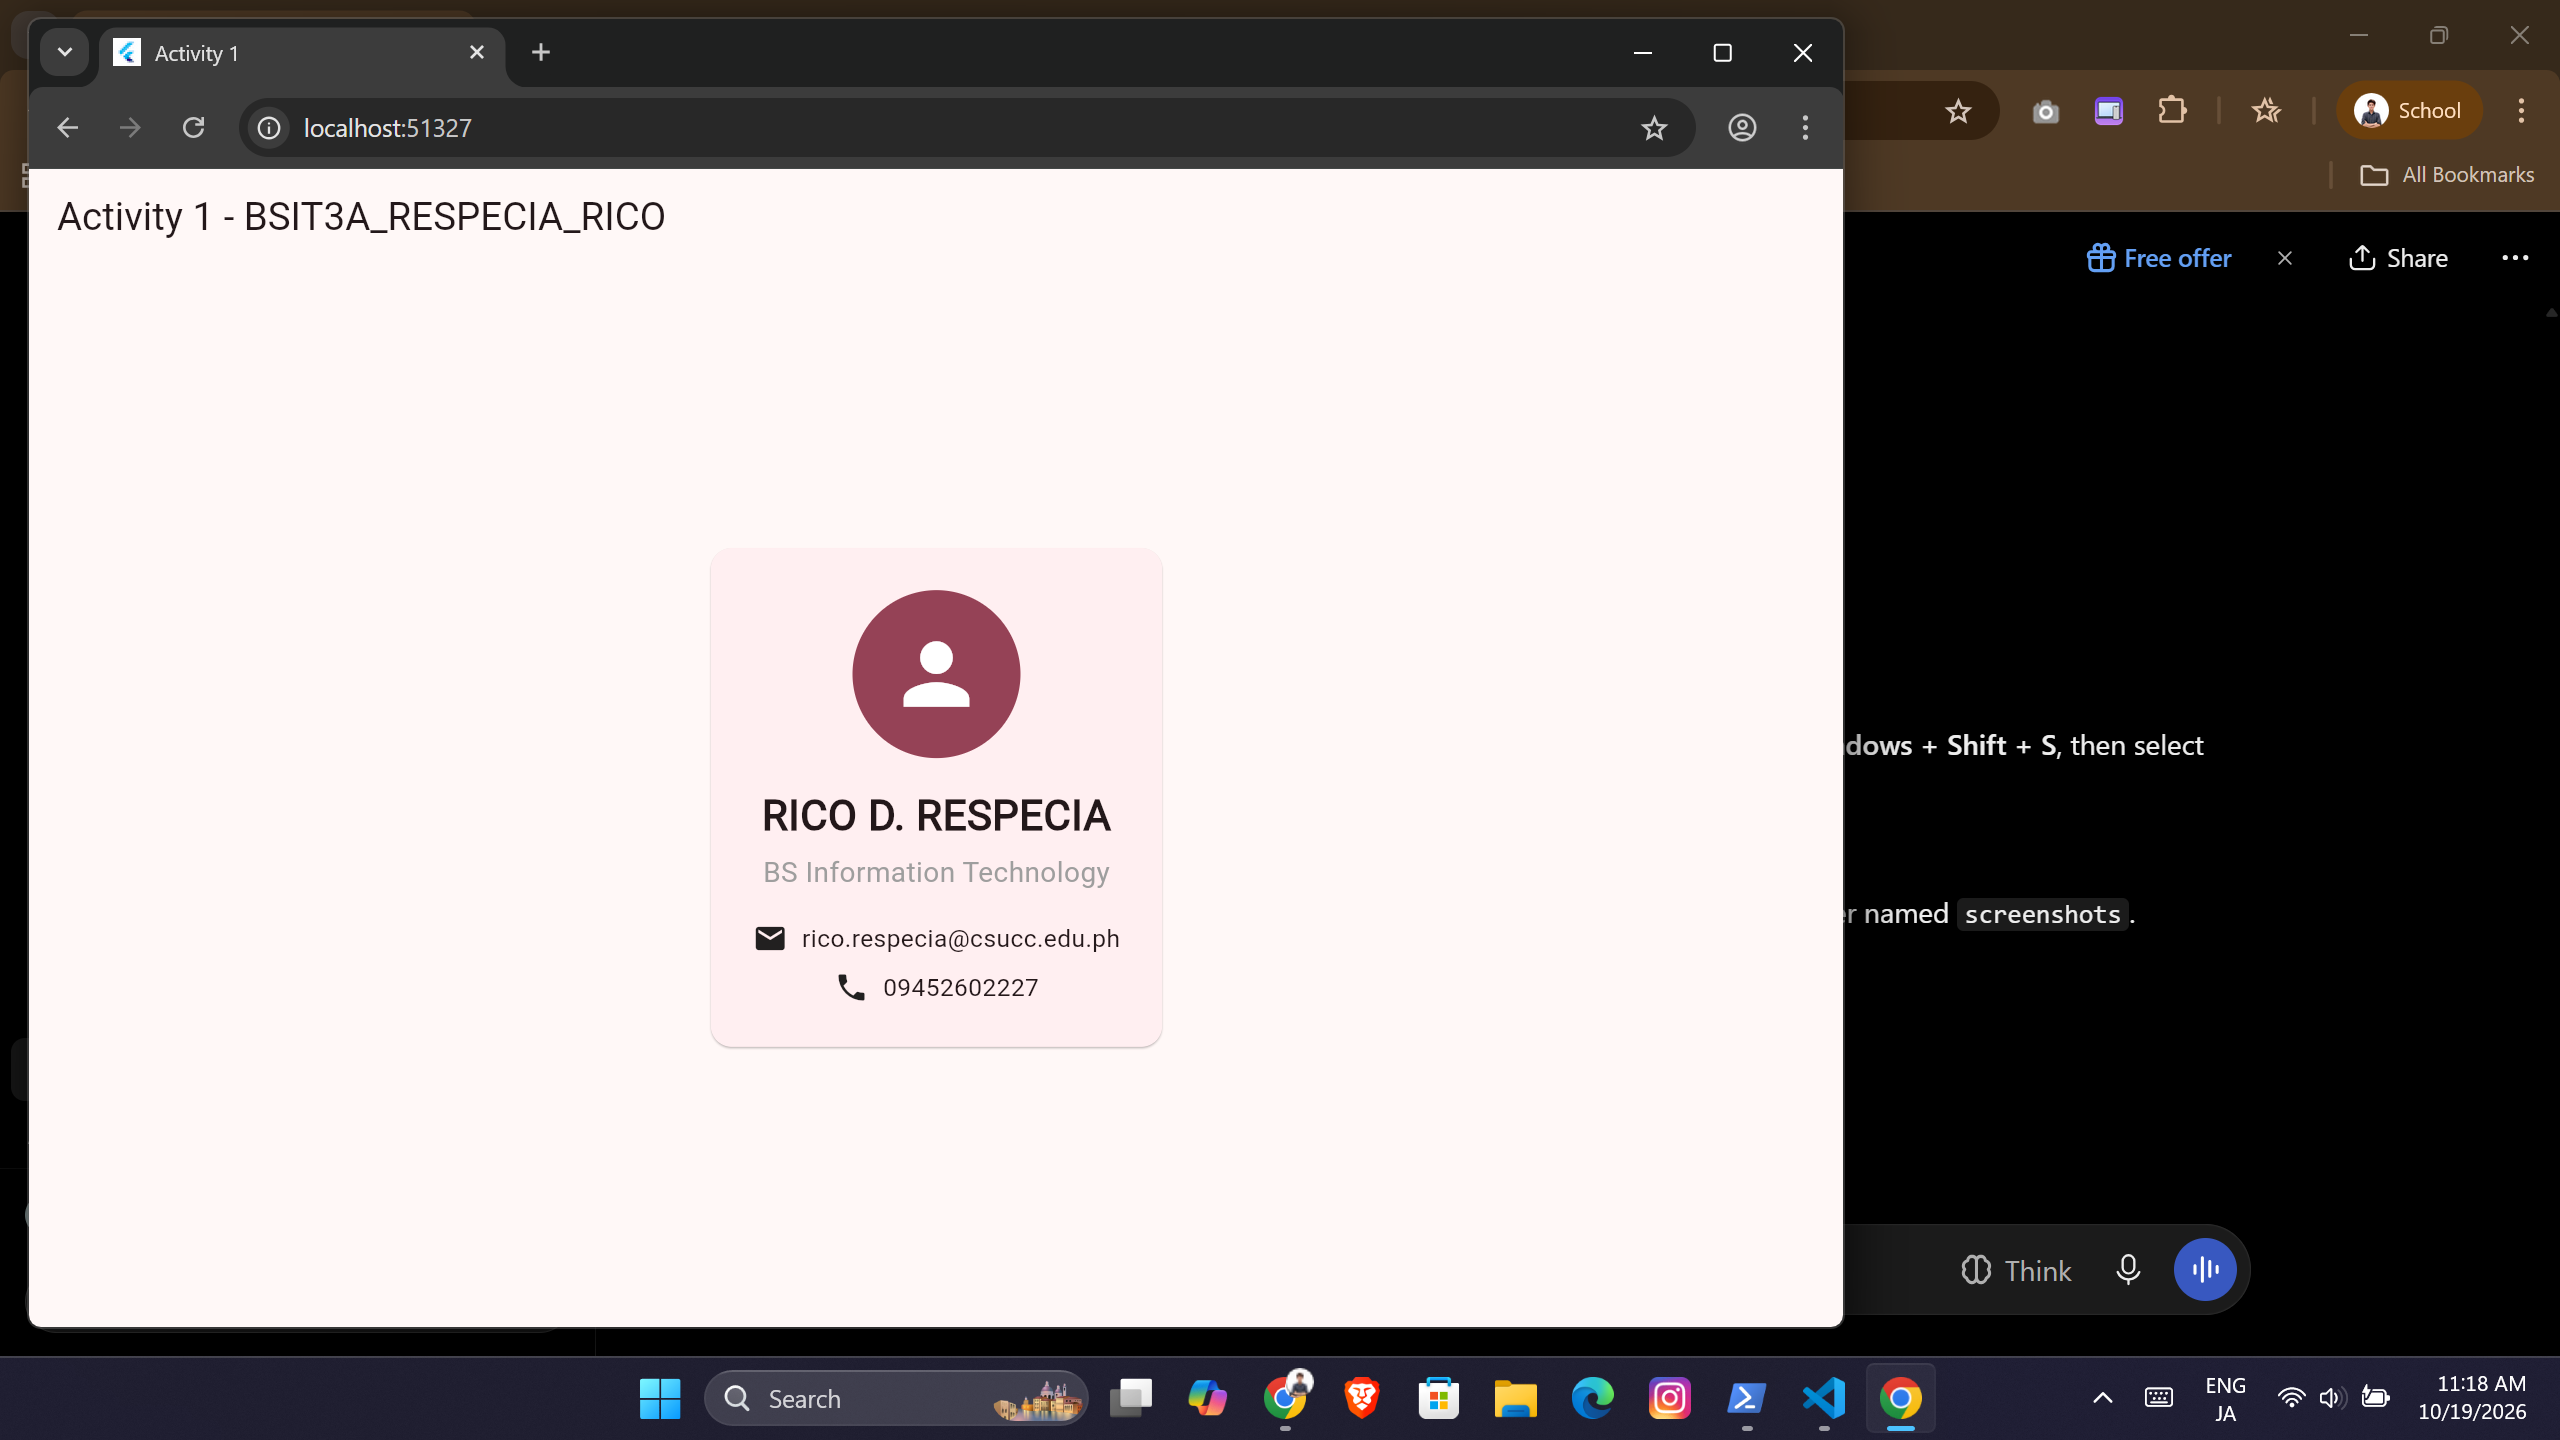
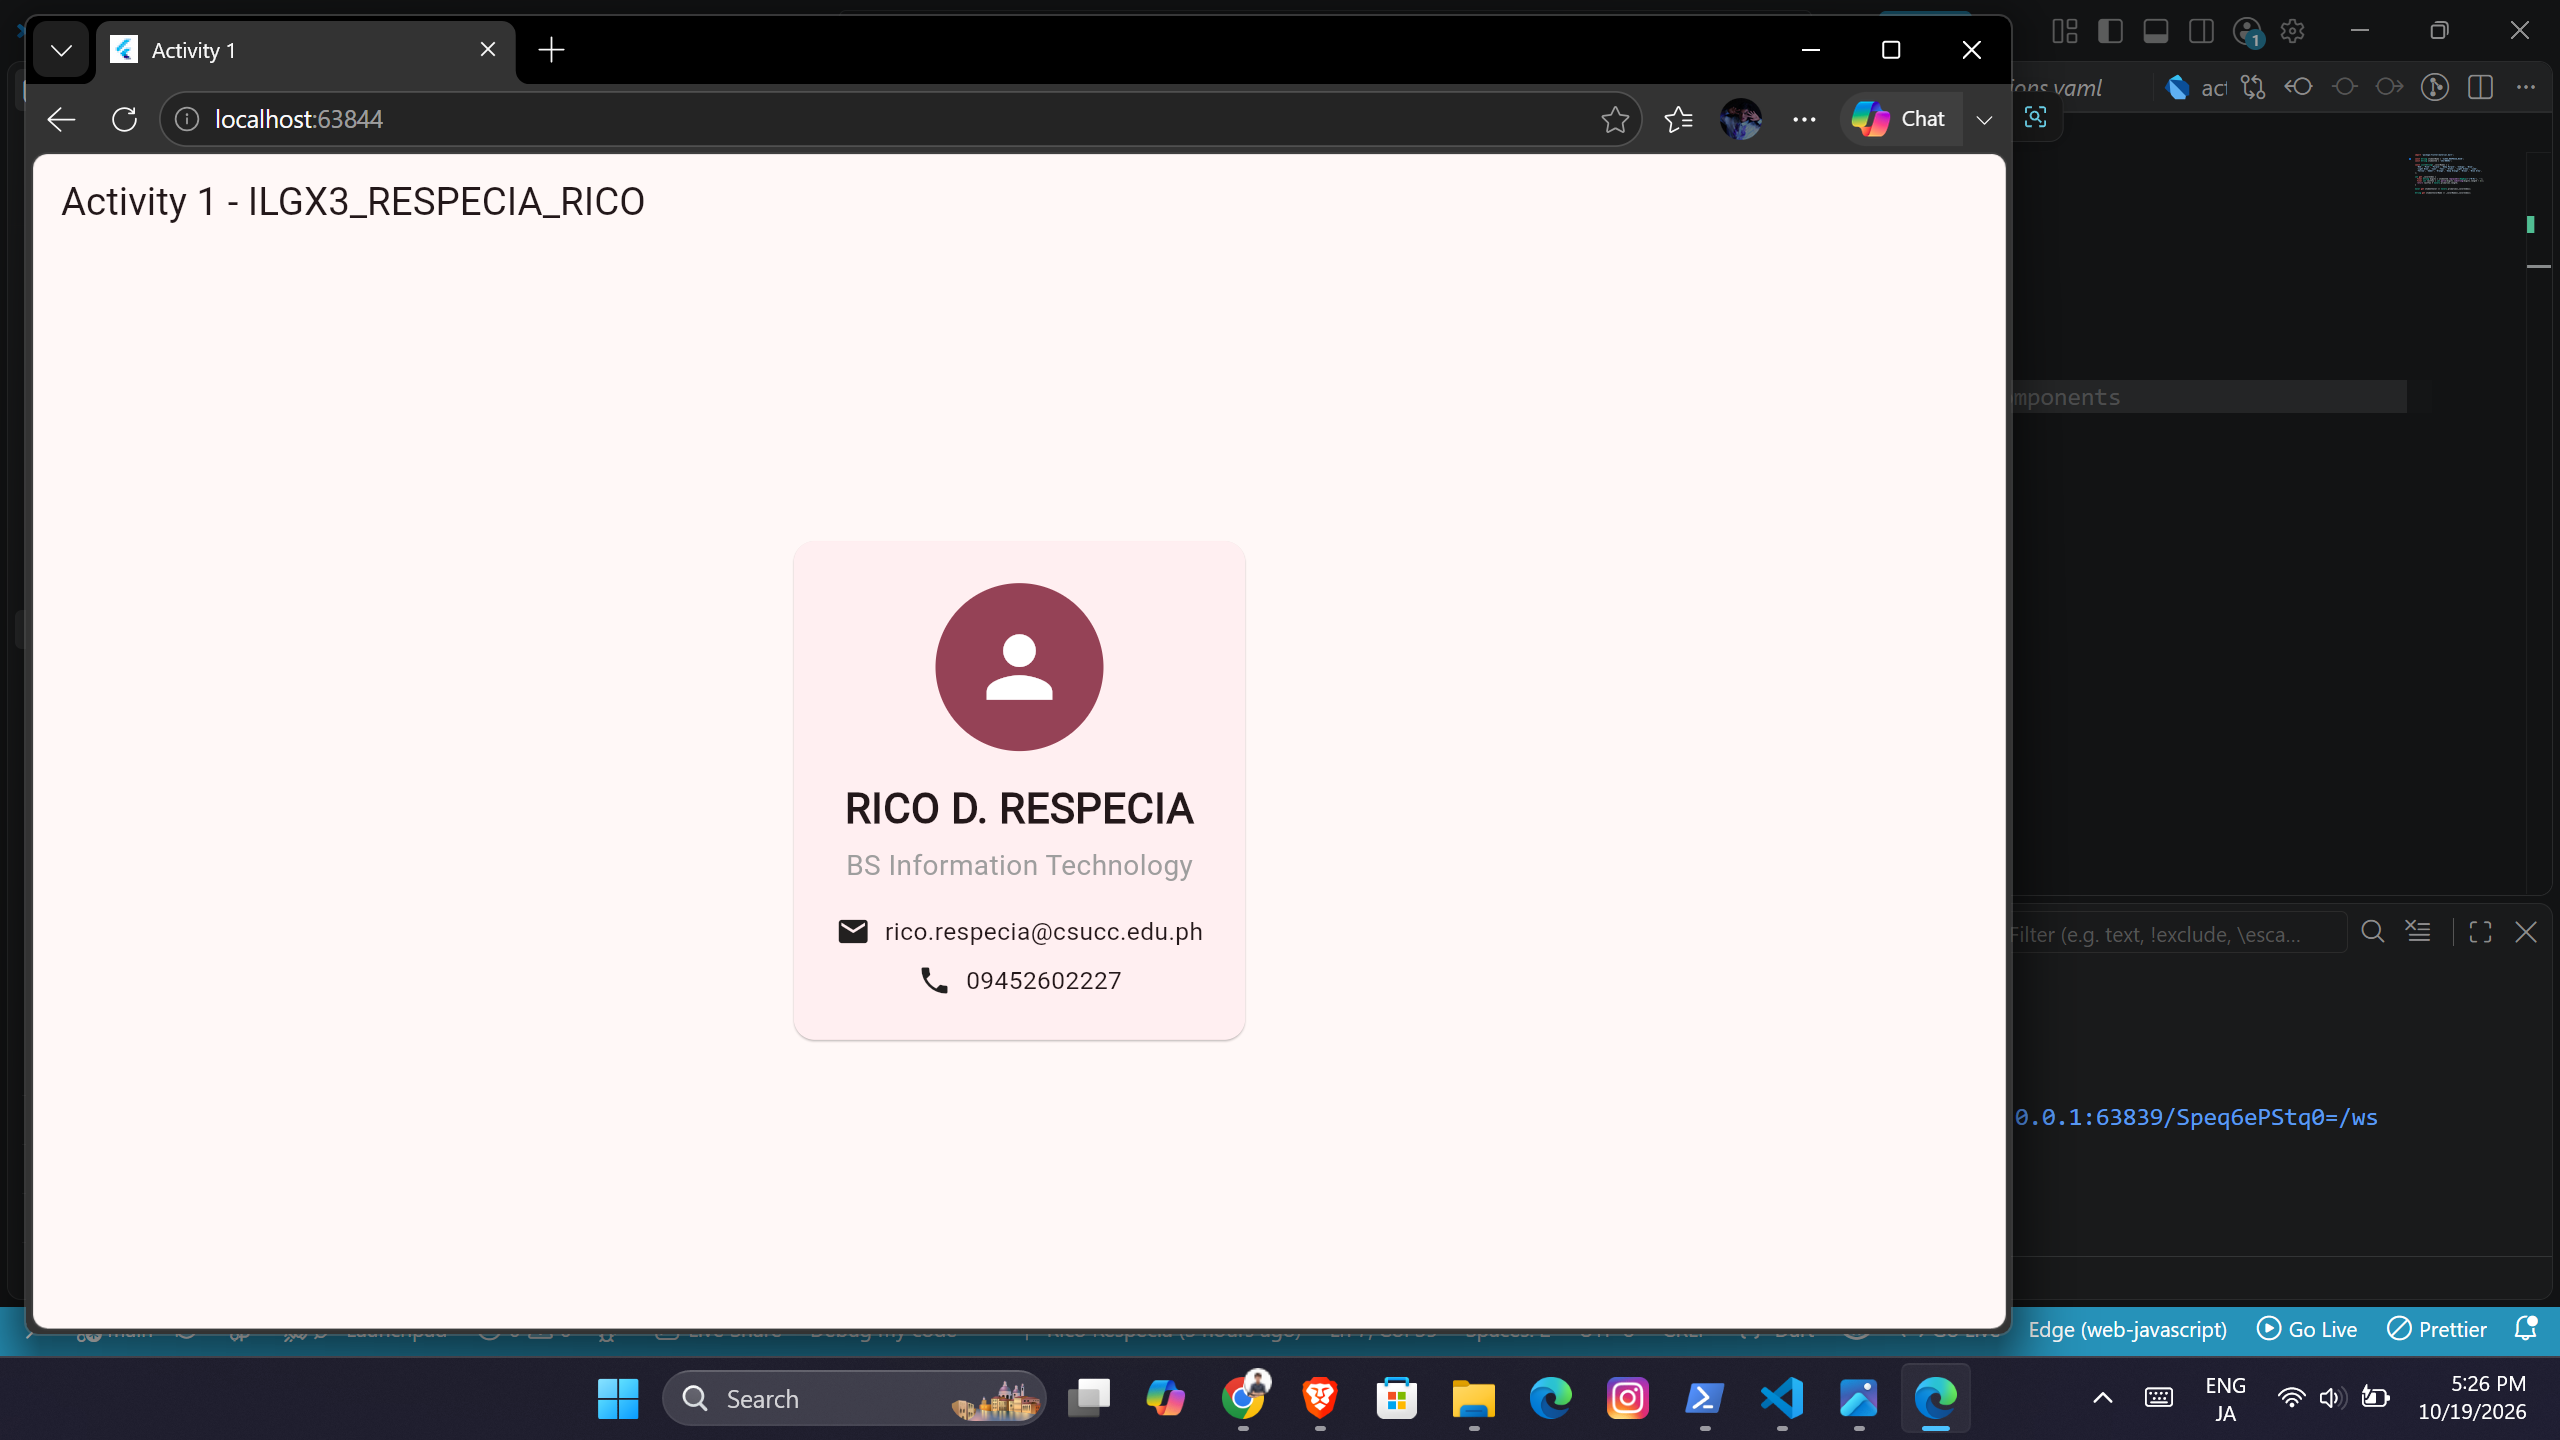
Update student details, answers, and screenshots

diff --git a/lib/student.dart b/lib/student.dart
@@ -1,7 +1,7 @@
 
 import 'package:flutter/material.dart';
 
-const String studentName = 'BSIT3A_RESPECIA_RICO';
+const String studentName = 'ILGX3_RESPECIA_RICO';
 const String studentId = '241-00591';
 
 const List<String> _colorNames = [

diff --git a/ANSWERS.md b/ANSWERS.md
@@ -69,3 +69,5 @@ Without `Expanded`, the `StatBox` widgets no longer divided the available horizo
 ### 10. When you flip the dark-mode switch in Activity 5, which widget holds the state, and how does the change reach MaterialApp?
 
 The `_ThemeDemoAppState` class holds the `_isDark` Boolean state. When the switch changes, its callback calls `setState()`, which rebuilds the app and updates `MaterialApp`'s `themeMode` to either `ThemeMode.light` or `ThemeMode.dark`.
+
+
